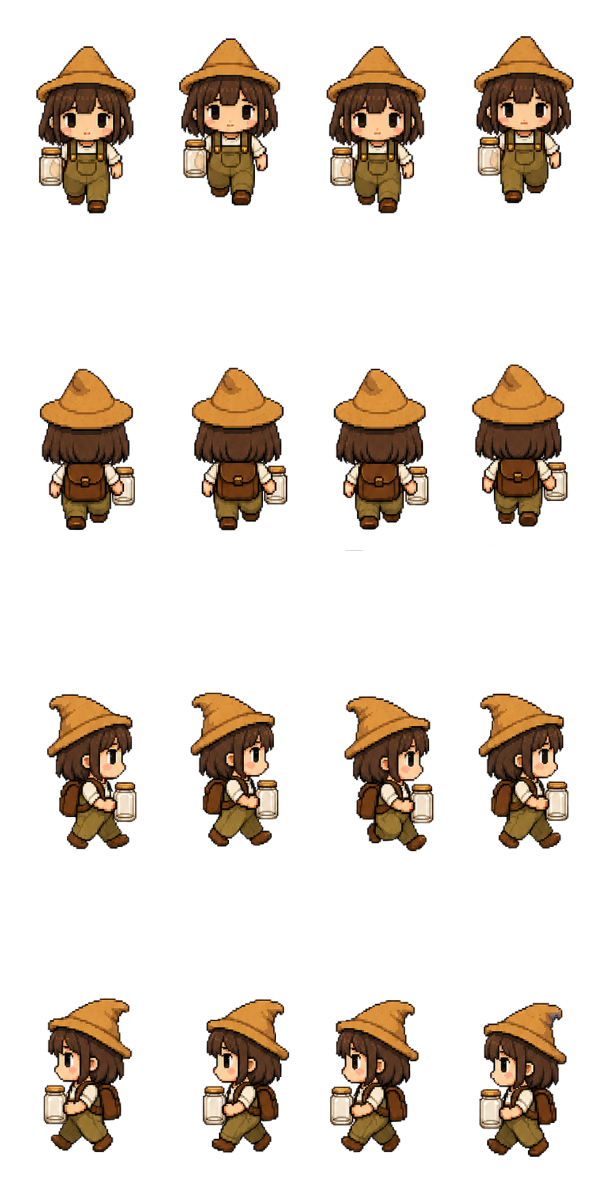
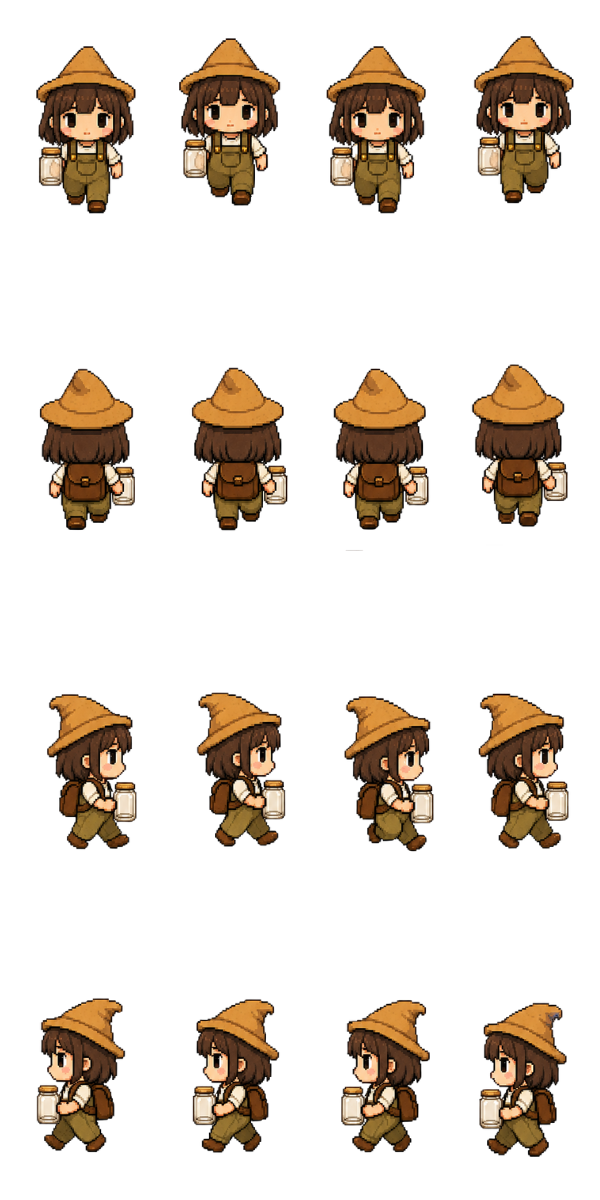
Character

diff --git a/sketch.js b/sketch.js
@@ -47,7 +47,7 @@ let hitFlashAlpha = 0;
 const HIT_FLASH_MAX = 150;
 const HIT_FLASH_DECAY = 8;
 
-const HITBOX_RADIUS = 6;
+const HITBOX_RADIUS = 8;
 const HITBOX_OFFSET_Y = 9;
 
 let lasers = [